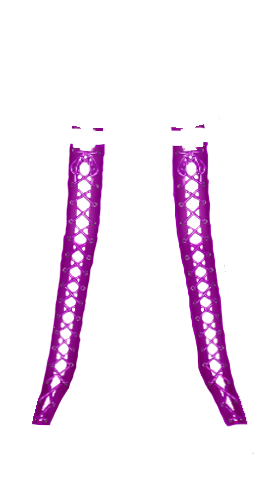
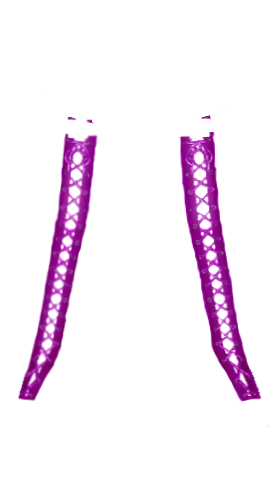
Deluxe Mistress Boots
- Added Deluxe Mistress Boots item, obtained alongside other mistress items

Changed region(s): [[0.0615, 0.24, 0.4, 0.87], [0.6154, 0.21, 0.9538, 0.87], [0.2462, 0.21, 0.2769, 0.24]]

diff --git a/BondageClub/Assets/Female3DCG/Female3DCG.js b/BondageClub/Assets/Female3DCG/Female3DCG.js
@@ -617,7 +617,7 @@ var AssetFemale3DCG = [
 				{ Name: "Laces", AllowColorize: true}
 				]
 			},
-			{ Name: "MistressBoots", Fetish: ["Leather"], Value: -1, HideItem: ["SocksSocks4", "SocksSocks5"], Alpha: [{ Group: ["BodyLower", "Socks", "SuitLower"], Masks: [[75, 875, 350, 200]] }], Height: 35	},
+			{ Name: "MistressBoots", Fetish: ["Leather"], Value: -1, BuyGroup: "MissBoots", HideItem: ["SocksSocks4", "SocksSocks5"], Alpha: [{ Group: ["BodyLower", "Socks", "SuitLower"], Masks: [[75, 875, 350, 200]] }], Height: 35	},
 			{ Name: "PonyBoots", Fetish: ["Pony"], Value: -1, Alpha: [{ Group: ["BodyLower", "Socks", "SuitLower"], Masks: [[75, 875, 350, 200]] }], Height: 35},
 			{ Name: "Sandals", Priority: 22, Value: 30, HideItem: ["SocksSocks0", "SocksSocks1", "SocksSocks2", "SocksSocks3", "SocksSocks4", "SocksSocks5", "SocksSocks6", "SocksSocksFur"], Height: 3 },
 			{ Name: "SandalsRS", Priority: 22, Value: 30, DefaultColor:["#AA9977", "#999999"], HideItem: ["SocksSocks0", "SocksSocks1", "SocksSocks2", "SocksSocks3", "SocksSocks4", "SocksSocks5", "SocksSocks6", "SocksSocksFur"], Height: 1, Alpha: [{ Group: ["BodyUpper"], Pose: ["Hogtied"], Masks: [[0, 0, 500, 70]] }],
@@ -642,7 +642,7 @@ var AssetFemale3DCG = [
 				{ Name: "Shoes",  AllowColorize: false }
 					]
 			},
-			{ Name: "TestBoots", Value: 2, Alpha: [{Masks: [[180, 900, 50, 100], [280, 900, 50, 100] ] }], DefaultColor: ["#9F0D0D","#700A0A","#700A0A","#9F0D0D"], Height: 35,
+			{ Name: "TestBoots", Fetish: ["Leather"], Value: -1, BuyGroup: "MissBoots", Alpha: [{Masks: [[180, 900, 50, 100], [280, 900, 50, 100] ] }], DefaultColor: ["#9F0D0D","#700A0A","#700A0A","#9F0D0D"], Height: 35,
 				Layer: [
 					{ Name: "Boots", AllowColorize: true},
 					{ Name: "Laces", AllowColorize: true},
